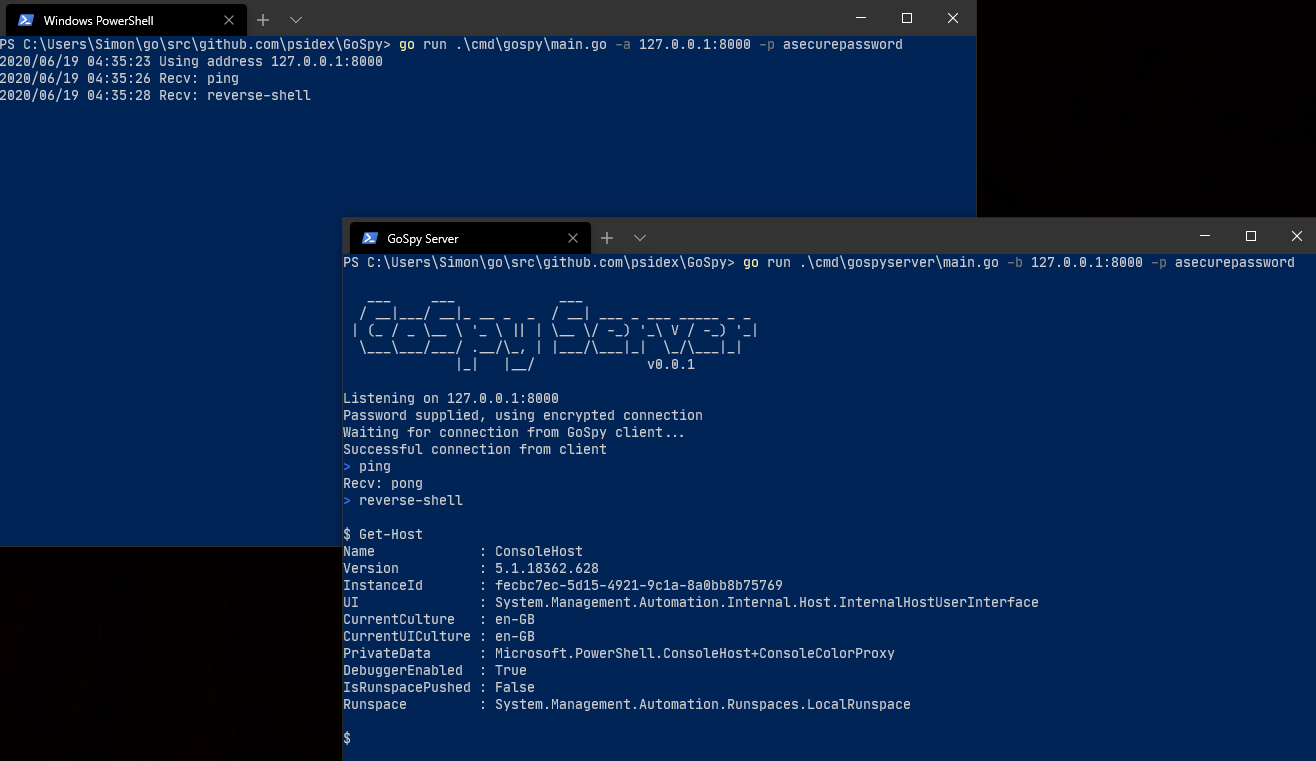
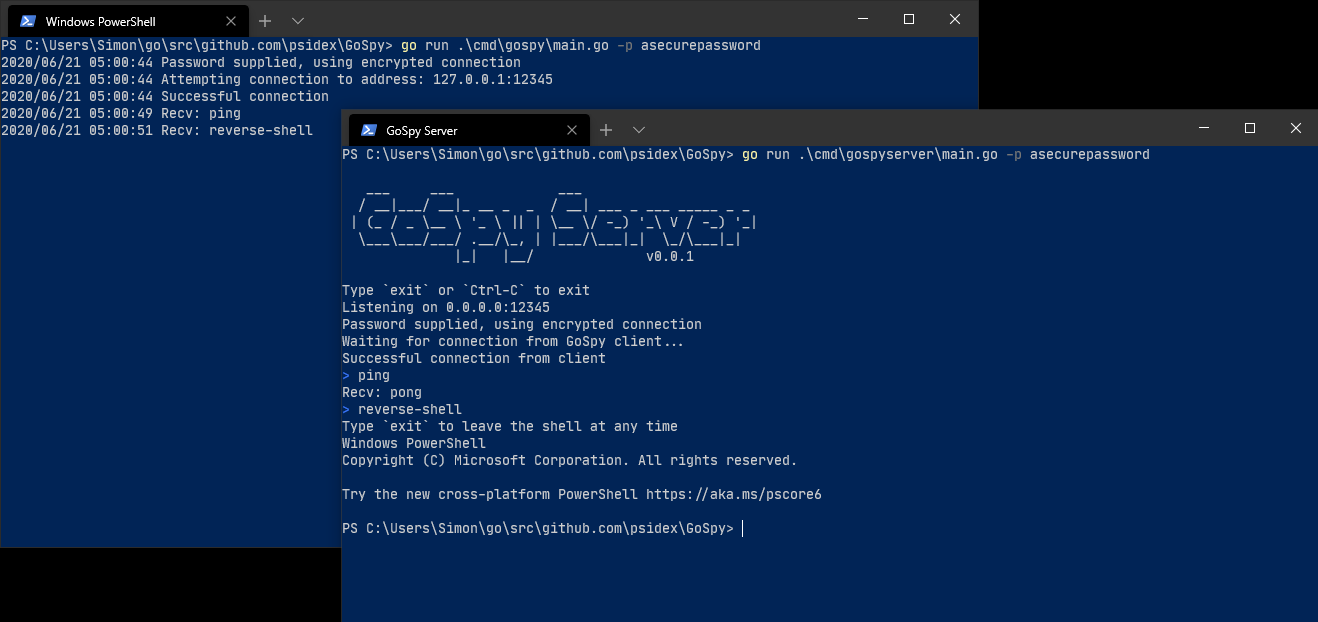
Update readme + demo image, in client close connection manager on command loop error.

Changed region(s): [[0.0, 0.0, 1.0, 0.9775]]

diff --git a/cmd/gospy/main.go b/cmd/gospy/main.go
@@ -54,7 +54,7 @@ func main() {
 	serverAddress = *address
 	serverPassword = *password
 
-	if serverAddress != "" {
+	if serverPassword != "" {
 		log.Println("Password supplied, using encrypted connection")
 	}
 
@@ -74,7 +74,11 @@ func main() {
 			cm = comms.NewPlainConn(conn)
 		}
 
+		log.Println("Successful connection")
+
 		err = commandLoop(cm)
+		_ = cm.Close() // Just in case.
+
 		log.Printf("Connection dropped: %s\n", err.Error())
 	}
 }

diff --git a/README.md b/README.md
@@ -44,7 +44,7 @@ These are almost all currently a WIP
 - [x] Basic plaintext communication over TCP sockets
 - [x] AES-256 encrypted communication over TCP sockets using a shared password
   - Note: This will cause a noticeable increase in response times
-- [x] Safe error handling for client so it won't suddenly drop on error
+- [x] Safe error handling so the client / server won't suddenly drop on error
 - [x] Automatic reconnect for both client and server
 - [x] Reverse shell
 - [ ] Screen grab
